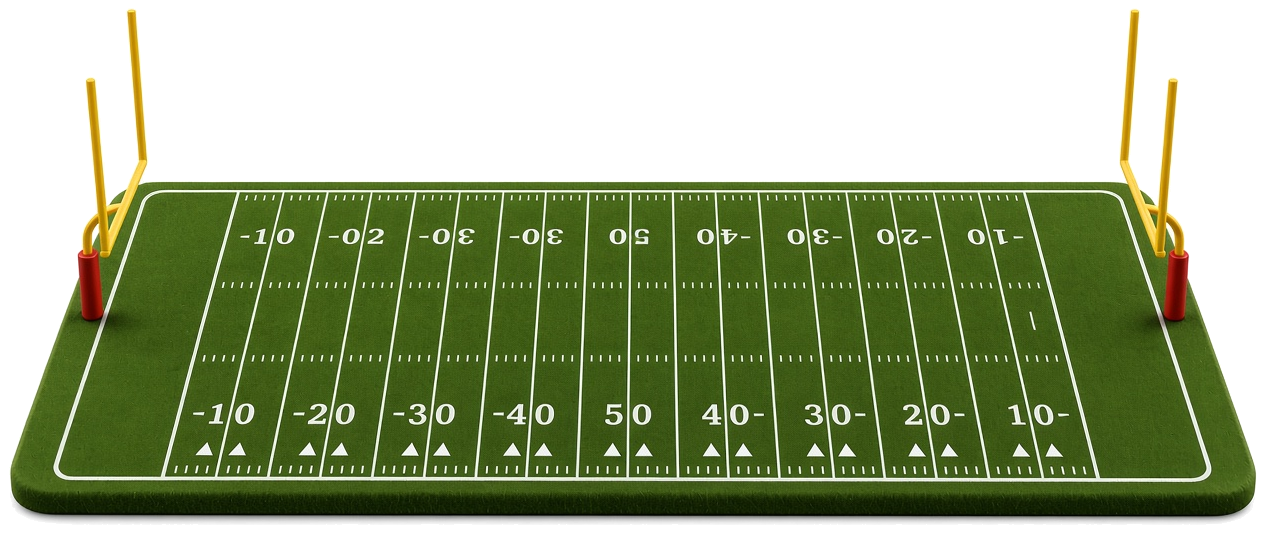
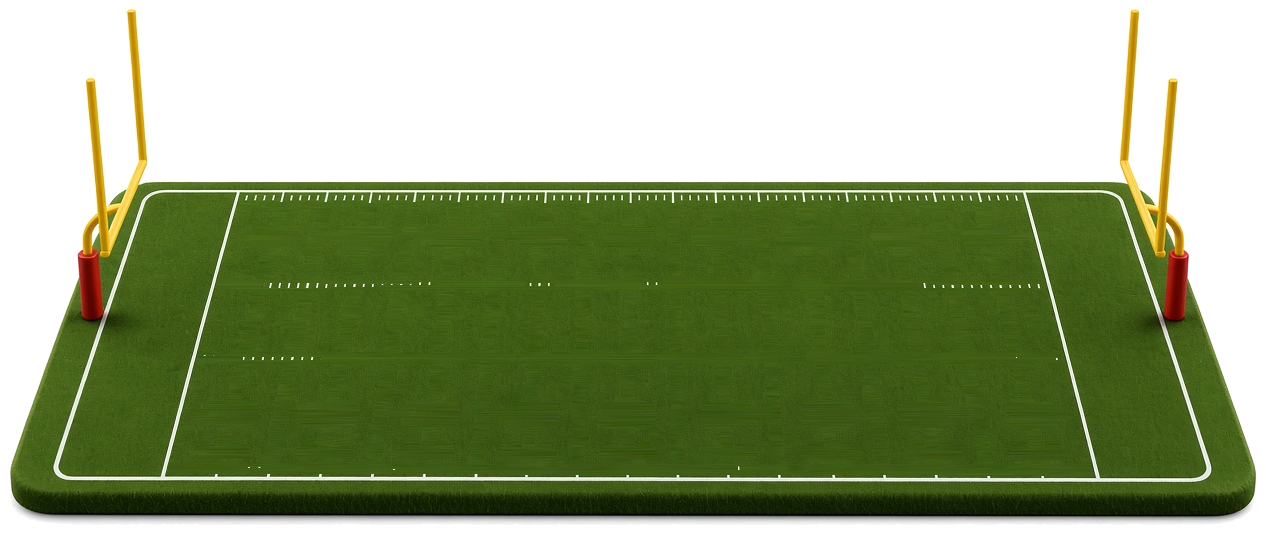
feat(lounge): pristine 3D turf slab with perspective vector lines and yard numbers
Clear artist-baked flawed turf markings, upside-down far sideline numbers, and misaligned stamps from gamecast-field-floating.png. Render all 21 perspective yard lines, bold near-sideline 10-yard numbers with directional arrows, and dynamic team graphics via SVG overlay in GameHubHero.jsx. Bump to v1.4.607.

diff --git a/src/features/lounge/gameHub/GameHubHero.jsx b/src/features/lounge/gameHub/GameHubHero.jsx
@@ -51,6 +51,36 @@ function PossessionFootball({ side }) {
   )
 }
 
+// 19 interior yard lines (every 5 yards from 5 to 95)
+const YARD_LINES = Array.from({ length: 19 }, (_, i) => {
+  const p = (i + 1) * 5
+  const isMajor = p % 10 === 0
+  const xTop = 239.0 + (p / 100.0) * 784.0
+  const xBot = 161.0 + (p / 100.0) * 937.0
+  return { p, isMajor, xTop, xBot }
+})
+
+// Numbers strictly on the 10-yard lines: 10, 20, 30, 40, 50, 40, 30, 20, 10
+const Y_NUM = 446
+const T_NUM = (Y_NUM - 191) / (478 - 191)
+
+const YARD_MARKERS = [
+  { p: 10, label: '10', dir: 'left' },
+  { p: 20, label: '20', dir: 'left' },
+  { p: 30, label: '30', dir: 'left' },
+  { p: 40, label: '40', dir: 'left' },
+  { p: 50, label: '50', dir: 'none' },
+  { p: 60, label: '40', dir: 'right' },
+  { p: 70, label: '30', dir: 'right' },
+  { p: 80, label: '20', dir: 'right' },
+  { p: 90, label: '10', dir: 'right' },
+].map(({ p, label, dir }) => {
+  const xTop = 239.0 + (p / 100.0) * 784.0
+  const xBot = 161.0 + (p / 100.0) * 937.0
+  const x = xTop * (1 - T_NUM) + xBot * T_NUM
+  return { p, label, dir, x }
+})
+
 function FieldViz({ game, live, awayColor, homeColor }) {
   if (!String(game.sport_key || '').includes('football')) return null
   if (game.status === 'pre') return null
@@ -86,7 +116,7 @@ function FieldViz({ game, live, awayColor, homeColor }) {
       <div className="relative w-full overflow-hidden">
         {/* Layer 1: Floating field base graphic */}
         <img
-          src="/sports/nfl/gamecast-field-floating.png?v=608"
+          src="/sports/nfl/gamecast-field-floating.png?v=609"
           alt="Gamecast Field"
           className="pointer-events-none block w-full select-none"
         />
@@ -107,7 +137,7 @@ function FieldViz({ game, live, awayColor, homeColor }) {
               <feComposite in="SourceGraphic" in2="blur" operator="over" />
             </filter>
             <filter id="text-shadow" x="-30%" y="-30%" width="160%" height="160%">
-              <feDropShadow dx="1" dy="2" stdDeviation="1.5" floodColor="#000000" floodOpacity="0.8" />
+              <feDropShadow dx="0" dy="1.5" stdDeviation="1.5" floodColor="#000000" floodOpacity="0.8" />
             </filter>
           </defs>
 
@@ -181,6 +211,53 @@ function FieldViz({ game, live, awayColor, homeColor }) {
             </g>
           ) : null}
 
+          {/* 19 Interior Yard Lines (every 5 yards, from 5 to 95) */}
+          {YARD_LINES.map(({ p, isMajor, xTop, xBot }) => (
+            <line
+              key={p}
+              x1={xTop.toFixed(1)}
+              y1="191"
+              x2={xBot.toFixed(1)}
+              y2="478"
+              stroke="#ffffff"
+              strokeWidth={isMajor ? '2.2' : '1.4'}
+              strokeOpacity={isMajor ? '0.85' : '0.50'}
+            />
+          ))}
+
+          {/* Numbers strictly on the 10-yard lines */}
+          {YARD_MARKERS.map(({ p, label, dir, x }) => (
+            <g key={p} filter="url(#text-shadow)">
+              <text
+                x={x.toFixed(1)}
+                y="450"
+                textAnchor="middle"
+                fill="#ffffff"
+                fillOpacity="0.90"
+                fontFamily="'Arial Black', Impact, sans-serif"
+                fontSize="20"
+                fontWeight="900"
+                letterSpacing="1"
+              >
+                {label}
+              </text>
+              {dir === 'left' ? (
+                <polygon
+                  points={`${(x - 25).toFixed(1)},444 ${(x - 19).toFixed(1)},440 ${(x - 19).toFixed(1)},448`}
+                  fill="#ffffff"
+                  fillOpacity="0.85"
+                />
+              ) : null}
+              {dir === 'right' ? (
+                <polygon
+                  points={`${(x + 25).toFixed(1)},444 ${(x + 19).toFixed(1)},440 ${(x + 19).toFixed(1)},448`}
+                  fill="#ffffff"
+                  fillOpacity="0.85"
+                />
+              ) : null}
+            </g>
+          ))}
+
           {/* First down line (yellow) */}
           {firstDownTop != null && firstDownBot != null ? (
             <line
@@ -232,7 +309,7 @@ function FieldViz({ game, live, awayColor, homeColor }) {
 
         {/* Layer 3: Foreground Goalposts Overlay (prevents endzone paint from tinting uprights/pads) */}
         <img
-          src="/sports/nfl/gamecast-goalposts-overlay.png?v=608"
+          src="/sports/nfl/gamecast-goalposts-overlay.png?v=609"
           alt=""
           aria-hidden="true"
           className="pointer-events-none absolute inset-0 block h-full w-full select-none"

diff --git a/src/utils/appBuildInfo.js b/src/utils/appBuildInfo.js
@@ -1,5 +1,5 @@
 /** Semantic version for EdgeTilt web & platform. */
-export const APP_VERSION = '1.4.606'
+export const APP_VERSION = '1.4.607'
 
 /** Short git SHA baked in at `vite build` / Vercel deploy (`VERCEL_GIT_COMMIT_SHA`). */
 export const APP_BUILD_SHA = String(import.meta.env.VITE_BUILD_SHA || 'unknown')

diff --git a/docs/test-buildout-backlog.md b/docs/test-buildout-backlog.md
@@ -3750,3 +3750,4 @@ Items are ordered by priority. ✅ = implemented. 🔜 = next. ⏳ = deferred (m
 - **2026-08-31:** **NFL/CFB slate card window fix:** `nfl_slate_card` (+ Wong teaser) use `filterOddsEventsForNextFootballSlate` (soonest kickoff + 5-day cluster, 21-day lookahead) so cards are ~this week’s games, not the full-season 272 dump. Redeploy **`lounge-odds-poll`**.
 - **2026-09-24:** **3D Gamecast near-side 30 yard line fix:** Corrected duplicate 20 marker on the near sideline left of 50 to a 30 (`10, 20, 30, 40`). Cleanly infilled previous 2 with turf and composited an exact translation of the right-side 3 glyph so it sits straight with balanced 3px spacing to the yard line. Cache-busted hero image to `?v=606` to clear browser cache collisions with prior 603/604 attempts. Bumped to v1.4.604.
 - **2026-09-24:** **3D Gamecast near-side 30 perspective calibration:** Applied subpixel horizontal perspective shear (+3.3px over 15px height) to the near-side 3 glyph so its right edge and axis align with the left-fanning yard line. Maintained an even 4.3px turf buffer along the entire yard line, matching the original 3D render bounding trapezoid. Cache-busted hero image to `?v=607`. Bumped to v1.4.605.
+- **2026-09-24:** **3D Gamecast pristine turf slab + vector markings (Option 2):** Inpainted and cleared artist-baked flawed turf markings, upside-down far sideline numbers, and misaligned stamps from `gamecast-field-floating.png` to yield pristine 3D turf with full soil slab depth and transparent background. Extracted isolated 3D yellow goalposts and red pads into `gamecast-goalposts-overlay.png` top layer. Implemented dynamic vector perspective markings in `GameHubHero.jsx`: 21 perspective yard lines (0 to 100), bold near-sideline 10-yard numbers (10 to 50 to 10) with directional arrows, midfield home team logo, skewed dynamic endzone paint, and live scrimmage/first-down trackers. Cache-busted to `?v=609`. Bumped to v1.4.607.
